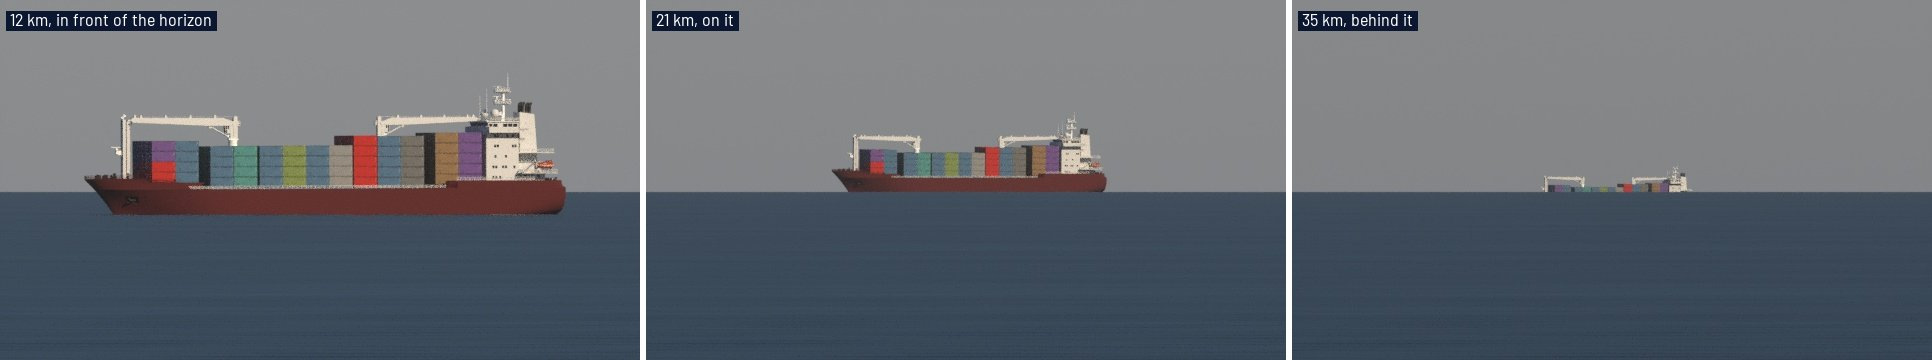
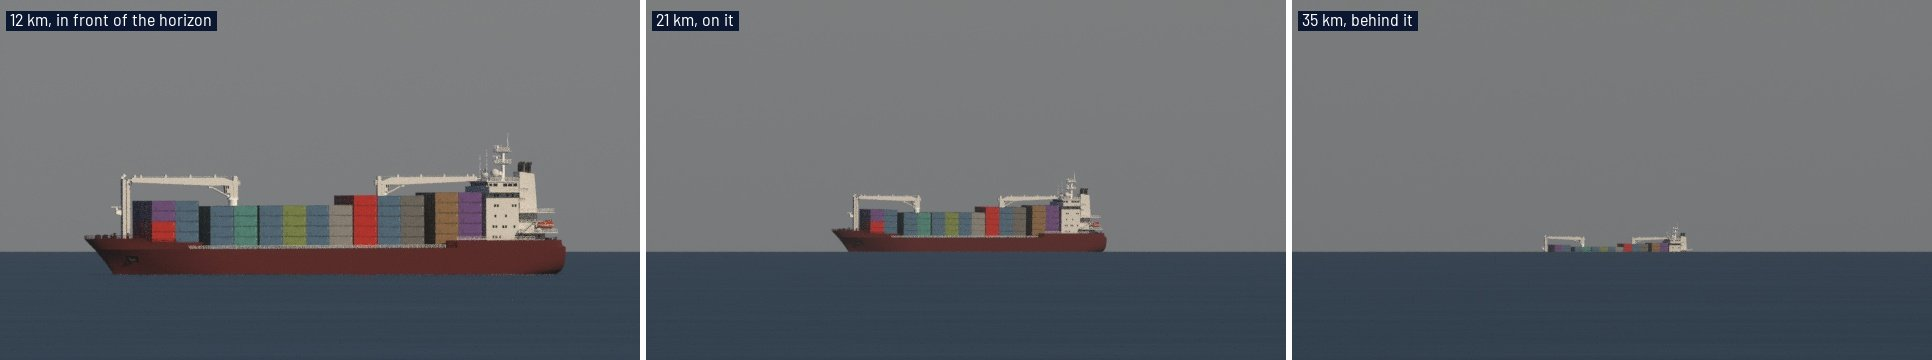
docs: the horizon figure keeps main's framing, the horizon low under the ship

Changed region(s): [[0.0, 0.2444, 1.0, 0.7639]]

diff --git a/docs/primer/figures.py b/docs/primer/figures.py
@@ -70,11 +70,11 @@ FIGURES: dict[str, tuple[list[str], list[tuple[str, list[str]]]]] = {
     ),
     "horizon": (
         # Clear air and a mast-top camera, so the sea hides most of the far hull.
-        # Tilted down to bring the horizon to mid-frame.
+        # Tilted down a touch, so the ships stand over a strip of sea.
         [
             TELE,
             f"rigs.bow.height_m = {EYE_M}",
-            "rigs.bow.pitch_deg = -0.15",
+            "rigs.bow.pitch_deg = -0.08",
             "sky.visibility_km = 1000.0",
         ],
         [
